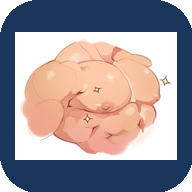
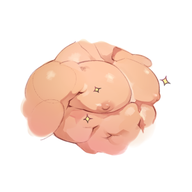
Ícone com fundo branco

diff --git a/sw.js b/sw.js
@@ -1,4 +1,4 @@
-const CACHE_NAME = 'dieta-v41';
+const CACHE_NAME = 'dieta-v42';
 const ASSETS = ['/dieta-app/', '/dieta-app/index.html'];
 
 self.addEventListener('install', e => {
